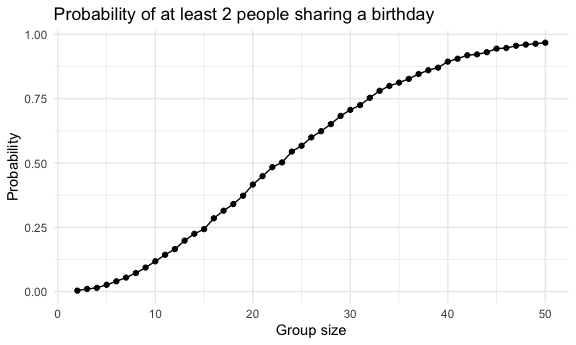
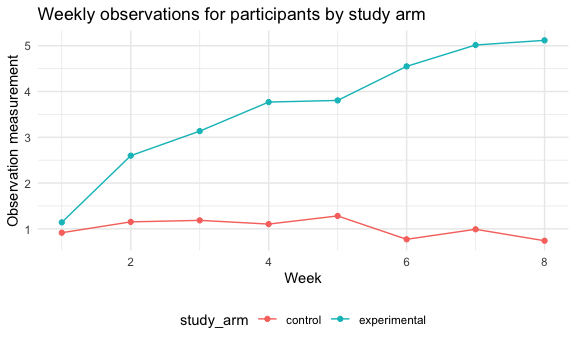
generating Q2 spaghetti plot

diff --git a/p8105_hw5_cc5423.md b/p8105_hw5_cc5423.md
@@ -5,31 +5,8 @@ Christina Chen
 
 ``` r
 library(tidyverse)
-```
-
-    ## ── Attaching core tidyverse packages ──────────────────────── tidyverse 2.0.0 ──
-    ## ✔ dplyr     1.2.1     ✔ readr     2.2.0
-    ## ✔ forcats   1.0.1     ✔ stringr   1.6.0
-    ## ✔ ggplot2   4.0.3     ✔ tibble    3.3.1
-    ## ✔ lubridate 1.9.5     ✔ tidyr     1.3.2
-    ## ✔ purrr     1.2.2     
-    ## ── Conflicts ────────────────────────────────────────── tidyverse_conflicts() ──
-    ## ✖ dplyr::filter() masks stats::filter()
-    ## ✖ dplyr::lag()    masks stats::lag()
-    ## ℹ Use the conflicted package (<http://conflicted.r-lib.org/>) to force all conflicts to become errors
-
-``` r
 library(rvest)
-```
 
-    ## 
-    ## Attaching package: 'rvest'
-    ## 
-    ## The following object is masked from 'package:readr':
-    ## 
-    ##     guess_encoding
-
-``` r
 knitr::opts_chunk$set(
   fig.width = 6,
   fig.asp = .6,
@@ -37,14 +14,6 @@ knitr::opts_chunk$set(
 )
 
 theme_set(theme_minimal() + theme(legend.position = "bottom"))
-
-options(
-  ggplot2.continuous.colour = "viridis",
-  ggplot2.continuous.fill = "viridis"
-)
-
-scale_colour_discrete = scale_color_viridis_d
-scale_fill_discrete = scale_fill_viridis_d
 
 set.seed(45)
 ```
@@ -136,35 +105,28 @@ We now have a dataframe `study_df` that read in the file names in the
 data folder of our project and put them in a column called `file_name`.
 
 ``` r
-study_df |> 
-  mutate(
-      file_path = file.path("data", file_name),
-      data = map(file_path, ~read_csv(.x)),
-      file_name = str_remove(file_name, ".csv")) |> 
-  unnest(data) |> 
-  pivot_longer(week_1:week_8, 
-               names_to = "week", 
-               names_prefix = "week_",
-               values_to = "measurement"
-               ) |> 
-  select(-file_path) |> 
-  separate(file_name, into = c("arm", "id"), sep = "_")
+study_df =
+  study_df |> 
+    mutate(
+        file_path = file.path("data", file_name),
+        data = map(file_path, ~read_csv(.x)),
+        file_name = str_remove(file_name, ".csv")) |> 
+    unnest(data) |> 
+    pivot_longer(week_1:week_8, 
+                 names_to = "week", 
+                 names_prefix = "week_",
+                 values_to = "measurement"
+                 ) |> 
+    select(-file_path) |> 
+    separate(file_name, into = c("study_arm", "id"), sep = "_") |> 
+    mutate(
+      study_arm = recode_values(study_arm, 
+                          "con" ~ "control",
+                          "exp" ~ "experimental"),
+      id = as.numeric(id),
+      week = as.numeric(week)
+    )
 ```
-
-    ## # A tibble: 160 × 4
-    ##    arm   id    week  measurement
-    ##    <chr> <chr> <chr>       <dbl>
-    ##  1 con   01    1            0.2 
-    ##  2 con   01    2           -1.31
-    ##  3 con   01    3            0.66
-    ##  4 con   01    4            1.96
-    ##  5 con   01    5            0.23
-    ##  6 con   01    6            1.09
-    ##  7 con   01    7            0.05
-    ##  8 con   01    8            1.94
-    ##  9 con   02    1            1.13
-    ## 10 con   02    2           -0.88
-    ## # ℹ 150 more rows
 
 I did the following processes:
 
@@ -175,3 +137,23 @@ I did the following processes:
 - Remove column `file_path` since that is no longer needed
 - Separate `file_name` into the arm type (control versus experimental)
   and the id number
+- Rename the `arm` values to be the full word
+- Make `id` and `week` numeric
+
+Make a spaghetti plot showing observations on each subject over time:
+
+``` r
+study_df |>
+  group_by(study_arm, week) |> 
+  summarize(mean_obs = mean(measurement)) |> 
+  ggplot(aes(x = week, y = mean_obs, color = study_arm)) + 
+  geom_point() +
+  geom_line() +
+  labs(
+    title = "Weekly observations for participants by study arm",
+    x = "Week",
+    y = "Observation measurement"
+  )
+```
+
+<img src="p8105_hw5_cc5423_files/figure-gfm/spag_plot-1.png" alt="" width="90%" />
